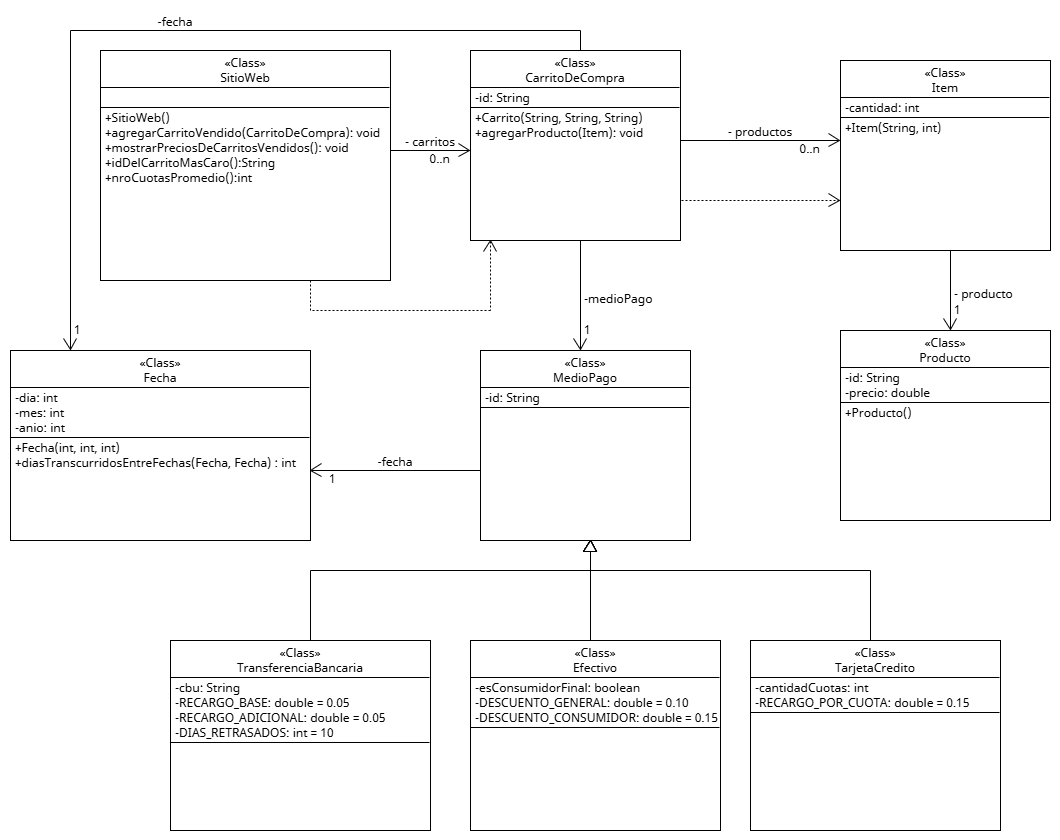
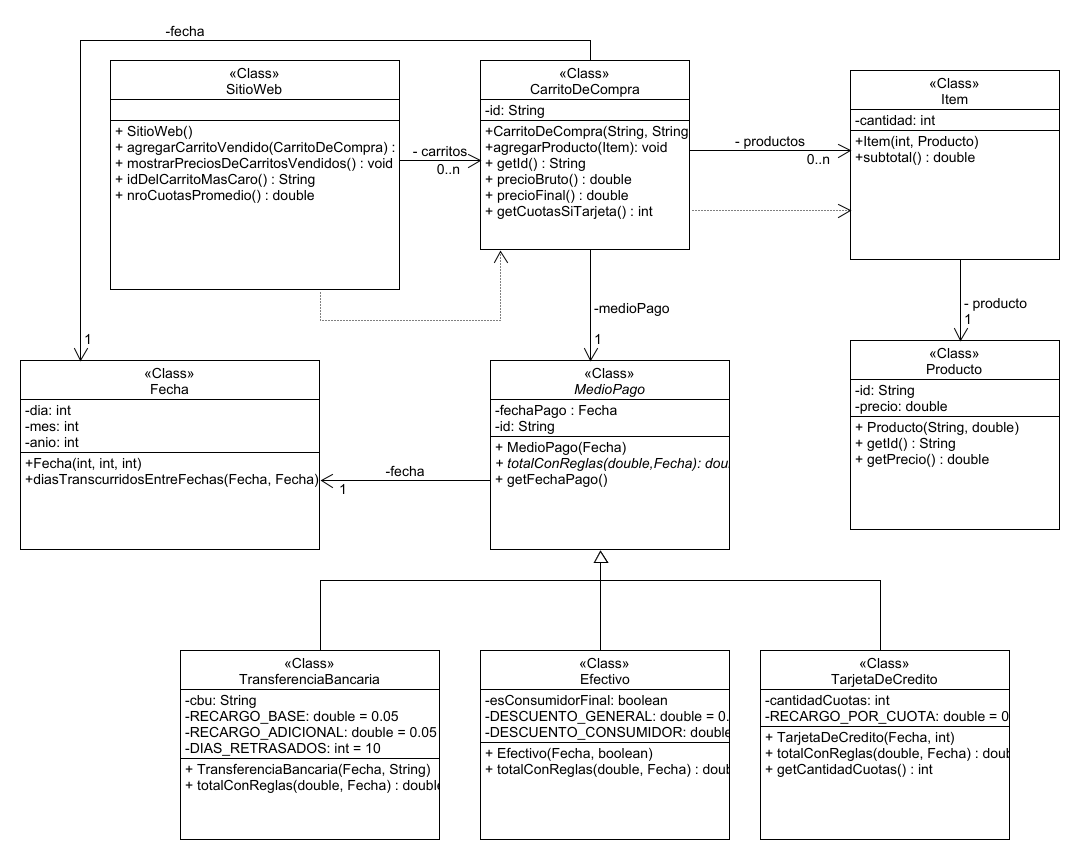
medios de pago y diagrama uml

diff --git a/src/main/java/org/rami/TransferenciaBancaria.java b/src/main/java/org/rami/TransferenciaBancaria.java
@@ -1,4 +1,5 @@
 package org.rami;
+
 import org.rami.util.Fecha;
 
 public class TransferenciaBancaria extends MedioPago {
@@ -14,7 +15,7 @@ public class TransferenciaBancaria extends MedioPago {
 
     @Override
     public double totalConReglas(double precioBruto, Fecha fechaCompra) {
-        int dias = Fecha.diasTranscurridosEntreFechas(fechaCompra, fechaPago);
+        int dias = Fecha.diasTranscurridosEntreFechas(fechaCompra, getFechaPago());
         double recargo = RECARGO_BASE + (dias > DIAS_RETRASADOS ? RECARGO_ADICIONAL : 0.0);
         return precioBruto * (1 + recargo);
     }

diff --git a/src/main/java/org/rami/MedioPago.java b/src/main/java/org/rami/MedioPago.java
@@ -3,10 +3,14 @@ package org.rami;
 import org.rami.util.Fecha;
 
 public abstract class MedioPago {
-    protected Fecha fechaPago;
+    private Fecha fechaPago;
 
     public MedioPago(Fecha fechaPago) {
         this.fechaPago = fechaPago;
+    }
+
+    public Fecha getFechaPago() {
+        return fechaPago;
     }
 
     public abstract double totalConReglas(double precioBruto, Fecha fechaCompra);

diff --git a/src/main/java/org/rami/TarjetaDeCredito.java b/src/main/java/org/rami/TarjetaDeCredito.java
@@ -1,4 +1,5 @@
 package org.rami;
+
 import org.rami.util.Fecha;
 
 public class TarjetaDeCredito extends MedioPago {

diff --git a/src/main/java/org/rami/Efectivo.java b/src/main/java/org/rami/Efectivo.java
@@ -1,4 +1,5 @@
 package org.rami;
+
 import org.rami.util.Fecha;
 
 public class Efectivo extends MedioPago {

diff --git a/README.md b/README.md
@@ -4,6 +4,8 @@
 - [@Ignacio Igartua](https://github.com/NachoIgartua2)
 - [@Ramiro Galvan](https://github.com/ramigalvan)
 
+![Diagrama UML](diagramas-uml/EjercicioIntegradorUML.png)
+
 # Clase 8 - Ejercicio Integrador
 
 El responsable de un sitio web de compras online nos pide un prototipo para obtener algunas estadísticas de los **carritos de compra** vendidos hasta el momento.
